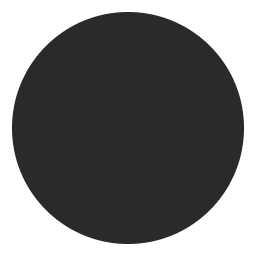
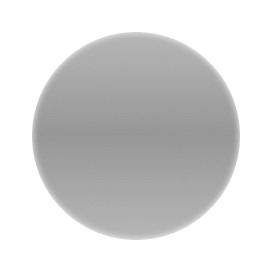
Fix Stuff again
- Fixed Node Header Text Overflow
- Changed The Readme
- Added New Preview Images
- Changed Node Texture
- More Mod Settings

diff --git a/ProtoFluxVisualsOverhaul/ProtoFluxRoundedUI.cs b/ProtoFluxVisualsOverhaul/ProtoFluxRoundedUI.cs
@@ -80,12 +80,6 @@ namespace ProtoFluxVisualsOverhaul {
     // Patch to add rounded corners to ProtoFlux node visuals
     [HarmonyPatch(typeof(ProtoFluxNodeVisual), "BuildUI")]
     public class ProtoFluxNodeVisual_BuildUI_Patch {
-        private static readonly Uri ROUNDED_TEXTURE = new Uri("resdb:///3ee5c0335455c19970d877e2b80f7869539df43fccb8fc64b38e320fc44c154f.png");
-        private static readonly Uri CONNECTOR_INPUT_TEXTURE = new Uri("https://raw.githubusercontent.com/DexyThePuppy/ProtoFluxVisualsOverhaul/refs/heads/main/ProtoFluxVisualsOverhaul/Images/Connector.png");
-        private static readonly Uri CONNECTOR_OUTPUT_TEXTURE = new Uri("https://raw.githubusercontent.com/DexyThePuppy/ProtoFluxVisualsOverhaul/refs/heads/main/ProtoFluxVisualsOverhaul/Images/Connector.png"); 
-        private static readonly Uri CALL_CONNECTOR_OUTPUT_TEXTURE = new Uri("https://raw.githubusercontent.com/DexyThePuppy/ProtoFluxVisualsOverhaul/refs/heads/main/ProtoFluxVisualsOverhaul/Images/Connector_Output.png");
-        private static readonly Uri CALL_CONNECTOR_INPUT_TEXTURE = new Uri("https://raw.githubusercontent.com/DexyThePuppy/ProtoFluxVisualsOverhaul/refs/heads/main/ProtoFluxVisualsOverhaul/Images/Connector_Input.png");
-        
         // ColorMyProtoFlux color settings
         private static readonly colorX NODE_CATEGORY_TEXT_LIGHT_COLOR = new colorX(0.75f);
         private static readonly colorX NODE_CATEGORY_TEXT_DARK_COLOR = new colorX(0.25f);
@@ -140,7 +134,9 @@ namespace ProtoFluxVisualsOverhaul {
             // Set up the texture if not already set
             if (spriteProvider.Texture.Target == null) {
                 var texture = spriteProvider.Slot.AttachComponent<StaticTexture2D>();
-                texture.URL.Value = isOutput ? CONNECTOR_OUTPUT_TEXTURE : CONNECTOR_INPUT_TEXTURE;
+                texture.URL.Value = isOutput ? 
+                    ProtoFluxVisualsOverhaul.Config.GetValue(ProtoFluxVisualsOverhaul.CONNECTOR_OUTPUT_TEXTURE) : 
+                    ProtoFluxVisualsOverhaul.Config.GetValue(ProtoFluxVisualsOverhaul.CONNECTOR_INPUT_TEXTURE);
                 texture.FilterMode.Value = ProtoFluxVisualsOverhaul.Config.GetValue(ProtoFluxVisualsOverhaul.FILTER_MODE);
                 texture.WrapModeU.Value = TextureWrapMode.Clamp;
                 texture.WrapModeV.Value = TextureWrapMode.Clamp;
@@ -153,6 +149,8 @@ namespace ProtoFluxVisualsOverhaul {
                 texture.Uncompressed.Value = ProtoFluxVisualsOverhaul.Config.GetValue(ProtoFluxVisualsOverhaul.UNCOMPRESSED);
                 texture.DirectLoad.Value = ProtoFluxVisualsOverhaul.Config.GetValue(ProtoFluxVisualsOverhaul.DIRECT_LOAD);
                 texture.ForceExactVariant.Value = ProtoFluxVisualsOverhaul.Config.GetValue(ProtoFluxVisualsOverhaul.FORCE_EXACT_VARIANT);
+                texture.PreferredFormat.Value = ProtoFluxVisualsOverhaul.Config.GetValue(ProtoFluxVisualsOverhaul.PREFERRED_FORMAT);
+                texture.PreferredProfile.Value = ProtoFluxVisualsOverhaul.Config.GetValue(ProtoFluxVisualsOverhaul.PREFERRED_PROFILE);
                 
                 spriteProvider.Texture.Target = texture;
                 spriteProvider.Rect.Value = !isOutput ? 
@@ -192,7 +190,9 @@ namespace ProtoFluxVisualsOverhaul {
             // Set up the texture if not already set
             if (spriteProvider.Texture.Target == null) {
                 var texture = spriteProvider.Slot.AttachComponent<StaticTexture2D>();
-                texture.URL.Value = isOutput ? CALL_CONNECTOR_OUTPUT_TEXTURE : CALL_CONNECTOR_INPUT_TEXTURE;
+                texture.URL.Value = isOutput ? 
+                    ProtoFluxVisualsOverhaul.Config.GetValue(ProtoFluxVisualsOverhaul.CALL_CONNECTOR_OUTPUT_TEXTURE) : 
+                    ProtoFluxVisualsOverhaul.Config.GetValue(ProtoFluxVisualsOverhaul.CALL_CONNECTOR_INPUT_TEXTURE);
                 texture.FilterMode.Value = ProtoFluxVisualsOverhaul.Config.GetValue(ProtoFluxVisualsOverhaul.FILTER_MODE);
                 texture.WrapModeU.Value = TextureWrapMode.Clamp;
                 texture.WrapModeV.Value = TextureWrapMode.Clamp;
@@ -205,6 +205,8 @@ namespace ProtoFluxVisualsOverhaul {
                 texture.Uncompressed.Value = ProtoFluxVisualsOverhaul.Config.GetValue(ProtoFluxVisualsOverhaul.UNCOMPRESSED);
                 texture.DirectLoad.Value = ProtoFluxVisualsOverhaul.Config.GetValue(ProtoFluxVisualsOverhaul.DIRECT_LOAD);
                 texture.ForceExactVariant.Value = ProtoFluxVisualsOverhaul.Config.GetValue(ProtoFluxVisualsOverhaul.FORCE_EXACT_VARIANT);
+                texture.PreferredFormat.Value = ProtoFluxVisualsOverhaul.Config.GetValue(ProtoFluxVisualsOverhaul.PREFERRED_FORMAT);
+                texture.PreferredProfile.Value = ProtoFluxVisualsOverhaul.Config.GetValue(ProtoFluxVisualsOverhaul.PREFERRED_PROFILE);
                 
                 spriteProvider.Texture.Target = texture;
                 spriteProvider.Rect.Value = !isOutput ? 
@@ -304,10 +306,10 @@ namespace ProtoFluxVisualsOverhaul {
                     
                     // Add overlapping layout to parent with exact settings
                     var overlappingLayout = titleParentSlot.AttachComponent<OverlappingLayout>();
-                    overlappingLayout.PaddingTop.Value = 4f;
-                    overlappingLayout.PaddingRight.Value = 4f;
-                    overlappingLayout.PaddingBottom.Value = 4f;
-                    overlappingLayout.PaddingLeft.Value = 4f;
+                    overlappingLayout.PaddingTop.Value = 5.5f;
+                    overlappingLayout.PaddingRight.Value = 5.5f;
+                    overlappingLayout.PaddingBottom.Value = 2.5f;
+                    overlappingLayout.PaddingLeft.Value = 5.5f;
                     overlappingLayout.HorizontalAlign.Value = LayoutHorizontalAlignment.Center;
                     overlappingLayout.VerticalAlign.Value = LayoutVerticalAlignment.Middle;
                     overlappingLayout.ForceExpandWidth.Value = true;
@@ -340,7 +342,12 @@ namespace ProtoFluxVisualsOverhaul {
                     var newTextSlot = newHeaderSlot.AddSlot("Text");
                     newTextSlot.ActiveSelf = true;
                     var newText = newTextSlot.AttachComponent<Text>();
+                    var textRect = newText.RectTransform;
                     
+                    // Set the anchors to stretch horizontally and vertically
+                    textRect.AnchorMin.Value = new float2(0.028f, 0.098f);  // x:0.028 y:0.098
+                    textRect.AnchorMax.Value = new float2(0.97f, 0.9f);     // x:0.97 y:0.9
+
                     // Apply text settings
                     newText.Size.Value = 64.00f;
                     newText.HorizontalAlign.Value = TextHorizontalAlignment.Center;
@@ -366,6 +373,8 @@ namespace ProtoFluxVisualsOverhaul {
                     // Set text color multiple ways to ensure it takes effect
                     newText.Color.Value = textColor;
                     newText.Color.ForceSet(textColor);
+                    newText.Size.Value = 9.00f;
+                    newText.AutoSizeMin.Value = 4f;
                     
                     // Convert color to hex based on brightness
                     newText.Content.Value = $"<color={(brightness > 0.6f ? "#000000" : "#FFFFFF")}><b>{headerText.Content.Value}</b></color>";
@@ -391,6 +400,17 @@ namespace ProtoFluxVisualsOverhaul {
 
                     ProtoFluxVisualsOverhaul.Msg("✅ Successfully reorganized title layout!");
                 }
+
+                // Find the category text (it's the last Text component with dark gray color)
+                var categoryText = ui.Root.GetComponentsInChildren<Text>()
+                    .LastOrDefault(text => text.Color.Value == colorX.DarkGray);
+                
+                if (categoryText != null) {
+                    categoryText.VerticalAlign.Value = TextVerticalAlignment.Middle;
+                    categoryText.Size.Value = 8.00f;
+                    categoryText.AlignmentMode.Value = AlignmentMode.LineBased;
+                    categoryText.LineHeight.Value = 0.35f;
+                }
             }
             catch (System.Exception e) {
                 ProtoFluxVisualsOverhaul.Msg($"❌ Error in ProtoFluxNodeVisual_BuildUI_Patch: {e.Message}");
@@ -409,7 +429,7 @@ namespace ProtoFluxVisualsOverhaul {
             
             // Set up the texture
             var texture = spriteProvider.Slot.AttachComponent<StaticTexture2D>();
-            texture.URL.Value = ROUNDED_TEXTURE;
+            texture.URL.Value = ProtoFluxVisualsOverhaul.Config.GetValue(ProtoFluxVisualsOverhaul.NODE_BACKGROUND_HEADER_TEXTURE);
             texture.FilterMode.Value = ProtoFluxVisualsOverhaul.Config.GetValue(ProtoFluxVisualsOverhaul.FILTER_MODE);
             texture.WrapModeU.Value = TextureWrapMode.Clamp;
             texture.WrapModeV.Value = TextureWrapMode.Clamp;
@@ -422,13 +442,15 @@ namespace ProtoFluxVisualsOverhaul {
             texture.Uncompressed.Value = ProtoFluxVisualsOverhaul.Config.GetValue(ProtoFluxVisualsOverhaul.UNCOMPRESSED);
             texture.DirectLoad.Value = ProtoFluxVisualsOverhaul.Config.GetValue(ProtoFluxVisualsOverhaul.DIRECT_LOAD);
             texture.ForceExactVariant.Value = ProtoFluxVisualsOverhaul.Config.GetValue(ProtoFluxVisualsOverhaul.FORCE_EXACT_VARIANT);
+            texture.PreferredFormat.Value = ProtoFluxVisualsOverhaul.Config.GetValue(ProtoFluxVisualsOverhaul.PREFERRED_FORMAT);
+            texture.PreferredProfile.Value = ProtoFluxVisualsOverhaul.Config.GetValue(ProtoFluxVisualsOverhaul.PREFERRED_PROFILE);
             ProtoFluxVisualsOverhaul.Msg("✅ Set up texture for header");
             
             // Configure the sprite provider based on the image settings
             spriteProvider.Texture.Target = texture;
             spriteProvider.Rect.Value = new Elements.Core.Rect(0f, 0f, 1f, 1f);  // x:0 y:0 width:1 height:1
             spriteProvider.Borders.Value = new float4(0.5f, 0.5f, 0.5f, 0.5f); 
-            spriteProvider.Scale.Value = 0.02f;  // Scale: 0.05
+            spriteProvider.Scale.Value = 0.03f;  // Scale: 0.05
             spriteProvider.FixedSize.Value = 1.00f;  // FixedSize: 1.00
             ProtoFluxVisualsOverhaul.Msg("✅ Configured header sprite provider settings");
 
@@ -555,7 +577,6 @@ namespace ProtoFluxVisualsOverhaul {
     // Keep the OnChanges patch for the background image
     [HarmonyPatch(typeof(ProtoFluxNodeVisual), "OnChanges")]
     public class ProtoFluxNodeVisual_OnChanges_Patch {
-        private static readonly Uri ROUNDED_TEXTURE = new Uri("resdb:///3ee5c0335455c19970d877e2b80f7869539df43fccb8fc64b38e320fc44c154f.png");
         private static readonly FieldInfo bgImageField = AccessTools.Field(typeof(ProtoFluxNodeVisual), "_bgImage");
 
         public static void Postfix(ProtoFluxNodeVisual __instance) {
@@ -590,7 +611,7 @@ namespace ProtoFluxVisualsOverhaul {
             
             // Set up the texture
             var texture = spriteProvider.Slot.AttachComponent<StaticTexture2D>();
-            texture.URL.Value = ROUNDED_TEXTURE;
+            texture.URL.Value = ProtoFluxVisualsOverhaul.Config.GetValue(ProtoFluxVisualsOverhaul.NODE_BACKGROUND_TEXTURE);
             texture.FilterMode.Value = ProtoFluxVisualsOverhaul.Config.GetValue(ProtoFluxVisualsOverhaul.FILTER_MODE);
             texture.WrapModeU.Value = TextureWrapMode.Clamp;
             texture.WrapModeV.Value = TextureWrapMode.Clamp;
@@ -603,6 +624,8 @@ namespace ProtoFluxVisualsOverhaul {
             texture.Uncompressed.Value = ProtoFluxVisualsOverhaul.Config.GetValue(ProtoFluxVisualsOverhaul.UNCOMPRESSED);
             texture.DirectLoad.Value = ProtoFluxVisualsOverhaul.Config.GetValue(ProtoFluxVisualsOverhaul.DIRECT_LOAD);
             texture.ForceExactVariant.Value = ProtoFluxVisualsOverhaul.Config.GetValue(ProtoFluxVisualsOverhaul.FORCE_EXACT_VARIANT);
+            texture.PreferredFormat.Value = ProtoFluxVisualsOverhaul.Config.GetValue(ProtoFluxVisualsOverhaul.PREFERRED_FORMAT);
+            texture.PreferredProfile.Value = ProtoFluxVisualsOverhaul.Config.GetValue(ProtoFluxVisualsOverhaul.PREFERRED_PROFILE);
 
             ProtoFluxVisualsOverhaul.Msg("✅ Set up texture for background");
             
@@ -610,7 +633,7 @@ namespace ProtoFluxVisualsOverhaul {
             spriteProvider.Texture.Target = texture;
             spriteProvider.Rect.Value = new Elements.Core.Rect(0f, 0f, 1f, 1f);  // x:0 y:0 width:1 height:1
             spriteProvider.Borders.Value = new float4(0.5f, 0.5f, 0.5f, 0.5f);  // x:0.5 y:0 z:0 w:0
-            spriteProvider.Scale.Value = 0.03f;  // Scale: 0.05
+            spriteProvider.Scale.Value = 0.07f;  // Scale: 0.05
             spriteProvider.FixedSize.Value = 1.00f;  // FixedSize: 1.00
             ProtoFluxVisualsOverhaul.Msg("✅ Configured background sprite provider settings");
 

diff --git a/ProtoFluxVisualsOverhaul/ProtoFluxVisualsOverhaul.cs b/ProtoFluxVisualsOverhaul/ProtoFluxVisualsOverhaul.cs
@@ -40,6 +40,27 @@ public class ProtoFluxVisualsOverhaul : ResoniteMod {
 	public static readonly ModConfigurationKey<Uri> NEAR_TEXTURE = new("nearTexture", "Near Texture URL", () => new Uri("resdb:///de2b9dfc4d029bd32ec784078b7511f0a8f18d2690595fc2540729da63a37f0a.webp"));	
 
 	[AutoRegisterConfigKey]
+	public static readonly ModConfigurationKey<Uri> ROUNDED_TEXTURE = new("roundedTexture", "Rounded Texture URL", () => new Uri("resdb:///3ee5c0335455c19970d877e2b80f7869539df43fccb8fc64b38e320fc44c154f.png"));
+
+	[AutoRegisterConfigKey]
+	public static readonly ModConfigurationKey<Uri> CONNECTOR_INPUT_TEXTURE = new("connectorInputTexture", "Connector Input Texture URL", () => new Uri("https://raw.githubusercontent.com/DexyThePuppy/ProtoFluxVisualsOverhaul/refs/heads/main/ProtoFluxVisualsOverhaul/Images/Connector.png"));
+
+	[AutoRegisterConfigKey]
+	public static readonly ModConfigurationKey<Uri> CONNECTOR_OUTPUT_TEXTURE = new("connectorOutputTexture", "Connector Output Texture URL", () => new Uri("https://raw.githubusercontent.com/DexyThePuppy/ProtoFluxVisualsOverhaul/refs/heads/main/ProtoFluxVisualsOverhaul/Images/Connector.png")); 
+
+	[AutoRegisterConfigKey]
+	public static readonly ModConfigurationKey<Uri> CALL_CONNECTOR_OUTPUT_TEXTURE = new("callConnectorOutputTexture", "Call Connector Output Texture URL", () => new Uri("https://raw.githubusercontent.com/DexyThePuppy/ProtoFluxVisualsOverhaul/refs/heads/main/ProtoFluxVisualsOverhaul/Images/Connector_Output.png"));
+
+	[AutoRegisterConfigKey]
+	public static readonly ModConfigurationKey<Uri> CALL_CONNECTOR_INPUT_TEXTURE = new("callConnectorInputTexture", "Call Connector Input Texture URL", () => new Uri("https://raw.githubusercontent.com/DexyThePuppy/ProtoFluxVisualsOverhaul/refs/heads/main/ProtoFluxVisualsOverhaul/Images/Connector_Input.png"));
+
+	[AutoRegisterConfigKey]
+	public static readonly ModConfigurationKey<Uri> NODE_BACKGROUND_TEXTURE = new("nodeBackgroundTexture", "Node Background Texture URL", () => new Uri("https://raw.githubusercontent.com/DexyThePuppy/ProtoFluxVisualsOverhaul/refs/heads/main/ProtoFluxVisualsOverhaul/Images/Node_Background.png"));
+
+	[AutoRegisterConfigKey]
+	public static readonly ModConfigurationKey<Uri> NODE_BACKGROUND_HEADER_TEXTURE = new("nodeBackgroundHeaderTexture", "Node Background Header Texture URL", () => new Uri("https://raw.githubusercontent.com/DexyThePuppy/ProtoFluxVisualsOverhaul/refs/heads/main/ProtoFluxVisualsOverhaul/Images/Node_Header_Background.png"));
+
+	[AutoRegisterConfigKey]
 	public static readonly ModConfigurationKey<TextureFilterMode> FILTER_MODE = new("filterMode", "Texture Filter Mode", () => TextureFilterMode.Anisotropic);
 
 	[AutoRegisterConfigKey]
@@ -52,7 +73,7 @@ public class ProtoFluxVisualsOverhaul : ResoniteMod {
 	public static readonly ModConfigurationKey<bool> DIRECT_LOAD = new("directLoad", "Direct Load", () => false);
 
 	[AutoRegisterConfigKey]
-	public static readonly ModConfigurationKey<bool> FORCE_EXACT_VARIANT = new("forceExactVariant", "Force Exact Variant", () => false);
+	public static readonly ModConfigurationKey<bool> FORCE_EXACT_VARIANT = new("forceExactVariant", "Force Exact Variant", () => true);
 
 	[AutoRegisterConfigKey]
 	public static readonly ModConfigurationKey<bool> CRUNCH_COMPRESSED = new("crunchCompressed", "Use Crunch Compression", () => true);
@@ -75,10 +96,16 @@ public class ProtoFluxVisualsOverhaul : ResoniteMod {
 	[AutoRegisterConfigKey]
 	public static readonly ModConfigurationKey<int> ANISOTROPIC_LEVEL = new("anisotropicLevel", "Anisotropic Level", () => 8);
 
+	[AutoRegisterConfigKey]
+	public static readonly ModConfigurationKey<TextureCompression> PREFERRED_FORMAT = new("preferredFormat", "Preferred Texture Format", () => TextureCompression.BC3_Crunched);
+
+	[AutoRegisterConfigKey]
+	public static readonly ModConfigurationKey<ColorProfile> PREFERRED_PROFILE = new("preferredProfile", "Preferred Color Profile", () => ColorProfile.sRGB);
+
 
 	public override void OnEngineInit() {
 		Config = GetConfiguration();
-		Config.Save(true); // Save default config values
+		Config.Save(true);
 
 		Harmony harmony = new Harmony("com.Dexy.ProtoFluxVisualsOverhaul");
 		harmony.PatchAll();
@@ -86,24 +113,27 @@ public class ProtoFluxVisualsOverhaul : ResoniteMod {
 		
 		Config.OnThisConfigurationChanged += (k) => {
 			if (k.Key != ENABLED) {
-				foreach (var kvp in pannerCache) {
-					var panner = kvp.Value;
-					if (panner == null) continue;
+				Engine.Current.GlobalCoroutineManager.StartTask(async () => {
+					await default(ToWorld);
+					foreach (var kvp in pannerCache) {
+						var panner = kvp.Value;
+						if (panner == null) continue;
 
-					panner.Speed = Config.GetValue(SCROLL_SPEED);
-					panner.Repeat = Config.GetValue(SCROLL_REPEAT);
-					panner.PingPong.Value = Config.GetValue(PING_PONG);
+						panner.Speed = Config.GetValue(SCROLL_SPEED);
+						panner.Repeat = Config.GetValue(SCROLL_REPEAT);
+						panner.PingPong.Value = Config.GetValue(PING_PONG);
 
-					// Get the FresnelMaterial
-					var fresnelMaterial = kvp.Key.GetComponent<FresnelMaterial>();
-					if (fresnelMaterial != null) {
-						var farTexture = GetOrCreateSharedTexture(fresnelMaterial.Slot, Config.GetValue(FAR_TEXTURE));
-						fresnelMaterial.FarTexture.Target = farTexture;
-						
-						var nearTexture = GetOrCreateSharedTexture(fresnelMaterial.Slot, Config.GetValue(NEAR_TEXTURE));
-						fresnelMaterial.NearTexture.Target = nearTexture;
+						// Get the FresnelMaterial
+						var fresnelMaterial = kvp.Key.GetComponent<FresnelMaterial>();
+						if (fresnelMaterial != null) {
+							var farTexture = GetOrCreateSharedTexture(fresnelMaterial.Slot, Config.GetValue(FAR_TEXTURE));
+							fresnelMaterial.FarTexture.Target = farTexture;
+							
+							var nearTexture = GetOrCreateSharedTexture(fresnelMaterial.Slot, Config.GetValue(NEAR_TEXTURE));
+							fresnelMaterial.NearTexture.Target = nearTexture;
+						}
 					}
-				}
+				});
 			} 
 		};
 

diff --git a/README.md b/README.md
@@ -1,18 +1,19 @@
-# <img src="ProtoFluxVisualsOverhaul/Images/SmallPreview.png" alt="Preview of animated ProtoFlux wires" width="32"/> ProtoFluxVisualsOverhaul
+# <img src="ProtoFluxVisualsOverhaul/Images/Node.png" alt="Preview of animated ProtoFlux wires" width="32"/> ProtoFluxVisualsOverhaul
 
 *Woof woof!* A [ResoniteModLoader](https://github.com/resonite-modding-group/ResoniteModLoader) mod for [Resonite](https://resonite.com/) that adds customizable animated textures to ProtoFlux wires! 🐾
 
 | Example | Closeup | Modified | Original |
 |:-------------:|:-------------:|:-------------:|:-------------:|
-| <img src="ProtoFluxVisualsOverhaul/Images/FluxPreview.png" alt="Preview of animated ProtoFlux wires" width="300"/> | <img src="ProtoFluxVisualsOverhaul/Images/SmallPreview.png" alt="Preview of animated ProtoFlux wires" width="300"/> | <img src="ProtoFluxVisualsOverhaul/Images/Texture.png" alt="Preview of animated ProtoFlux wires" width="60"/> | <img src="ProtoFluxVisualsOverhaul/Images/OriginalTexture.png" alt="Preview of animated ProtoFlux wires" width="60"/> |
+| <img src="ProtoFluxVisualsOverhaul/Images/CloseUp.png" alt="Preview of animated ProtoFlux wires" width="300"/> | <img src="ProtoFluxVisualsOverhaul/Images/Nodes.png" alt="Preview of animated ProtoFlux wires" width="300"/> | <img src="ProtoFluxVisualsOverhaul/Images/Texture.png" alt="Preview of animated ProtoFlux wires" width="60"/> | <img src="ProtoFluxVisualsOverhaul/Images/OriginalTexture.png" alt="Preview of animated ProtoFlux wires" width="60"/> |
 
 ## 🦴 Features
 
+- Overhauls the UI of ProtoFlux nodes
+- Customizable, Connector, Wire, and Node Textures
+- Comprehensive UI customization options
 - Optimizes wire rendering with shared materials
-- Adds customizable scrolling animations to wire textures
 - Configurable animation speed and direction
-- Customizable wire texture appearance options
-- Fixes temporary wire connection issues
+- Fixes Wire direction issues
 
 ## 🐕 Installation
 
